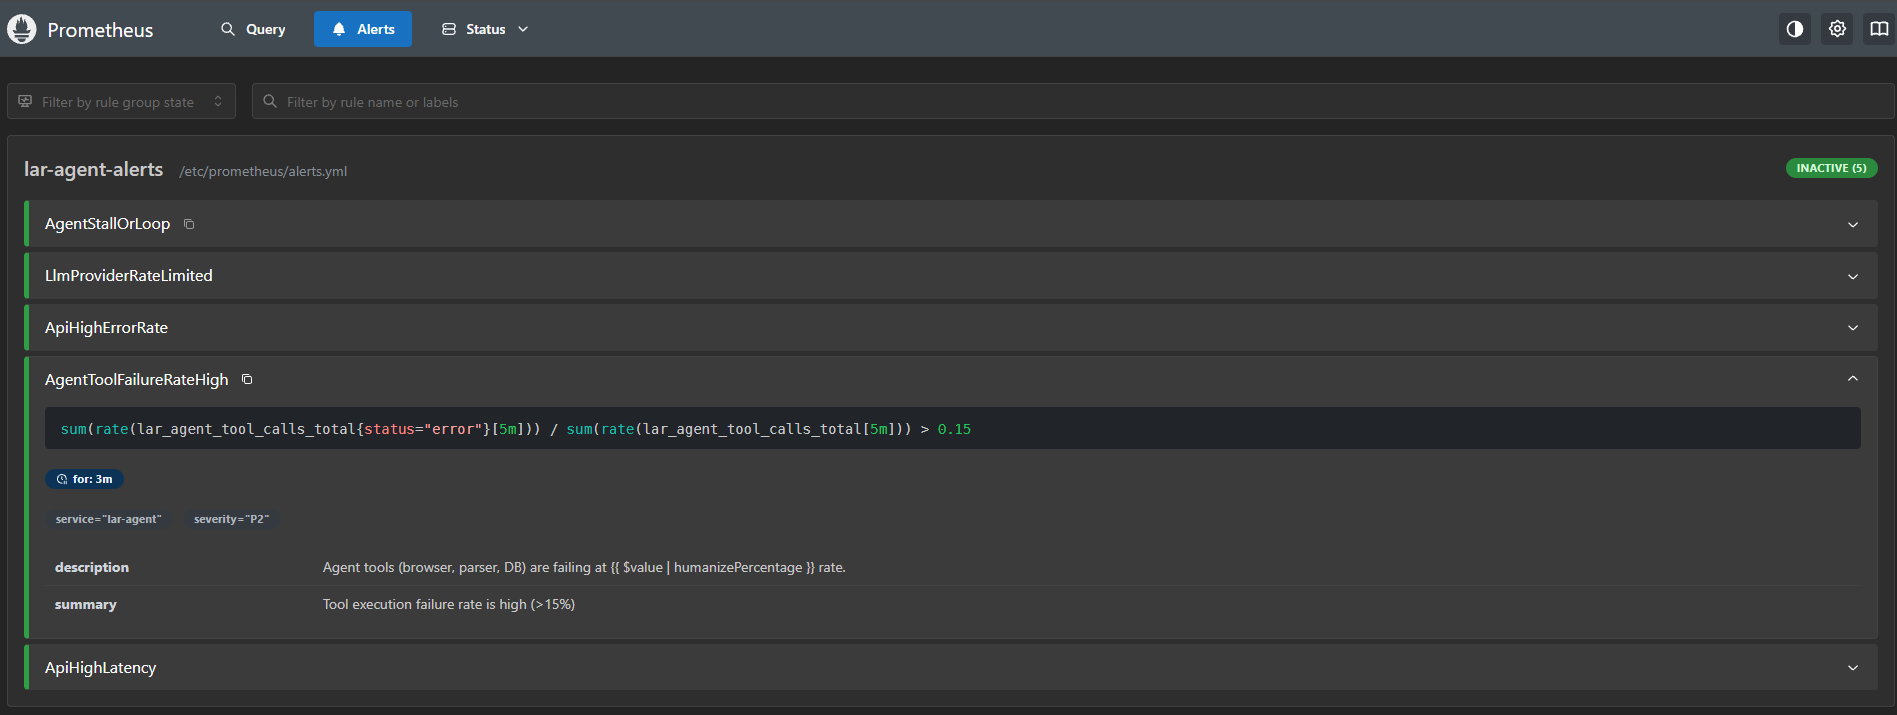
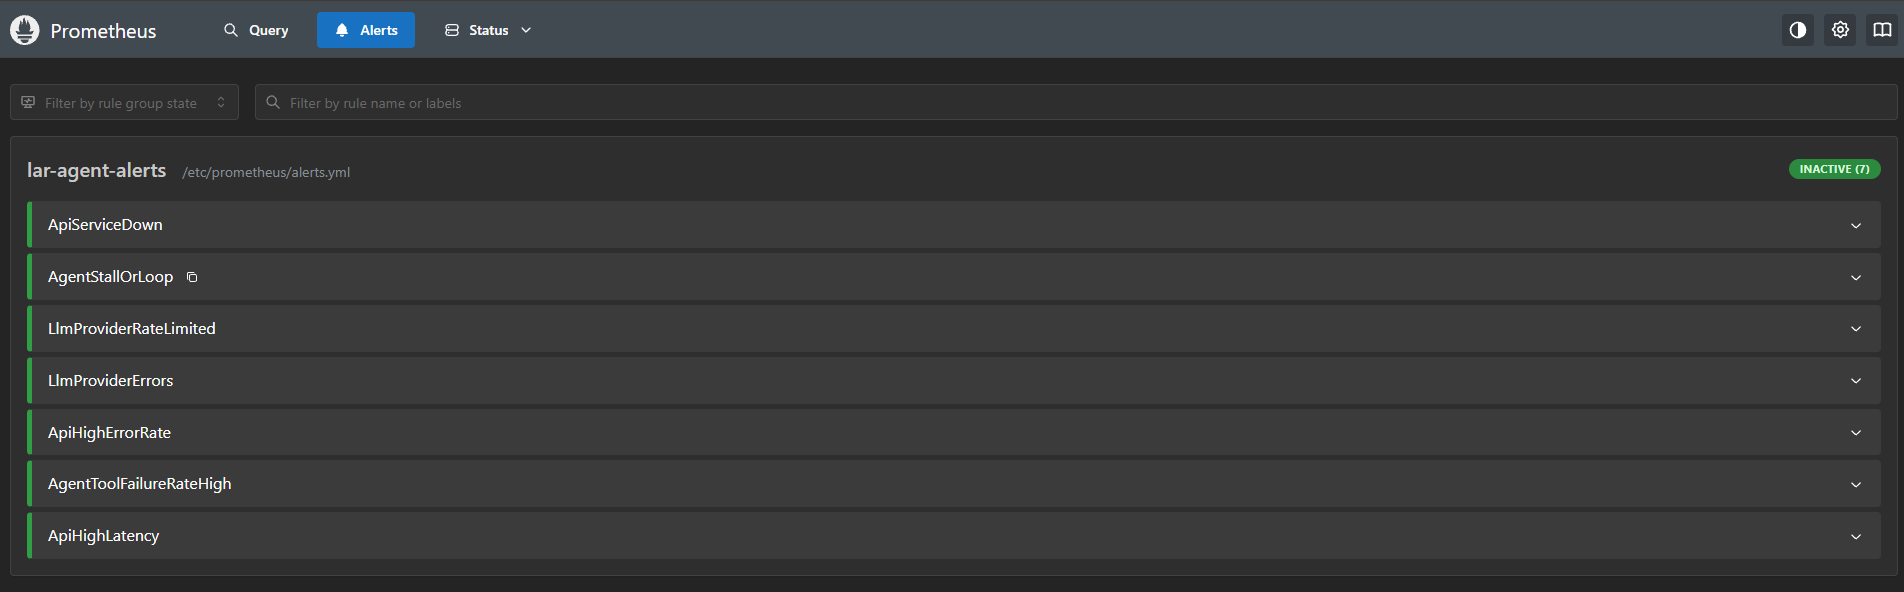
fix(guardrails): adapt mask_pii for NeMo, add regex fallback and register custom actions

diff --git a/src/agent/guardrails/actions/mask_pii.py b/src/agent/guardrails/actions/mask_pii.py
@@ -1,47 +1,80 @@
 import logging
+import re
 
 from nemoguardrails.actions import action
-from presidio_analyzer import AnalyzerEngine, Pattern, PatternRecognizer
-from presidio_anonymizer import AnonymizerEngine
 
 log = logging.getLogger(__name__)
 
-analyzer = AnalyzerEngine()
-anonymizer = AnonymizerEngine()
+_analyzer = None
+_anonymizer = None
 
-pesel_pattern = Pattern(name="pesel_pattern", regex=r"\b\d{11}\b", score=0.5)
-pesel_recognizer = PatternRecognizer(
-    supported_entity="PESEL", 
-    patterns=[pesel_pattern], 
-    context=["pesel", "nr pesel", "numer pesel"]
-)
-analyzer.registry.add_recognizer(pesel_recognizer)
+
+def _get_presidio():
+    global _analyzer, _anonymizer
+    if _analyzer is None:
+        try:
+            from presidio_analyzer import AnalyzerEngine, Pattern, PatternRecognizer
+            from presidio_anonymizer import AnonymizerEngine
+
+            engine = AnalyzerEngine()
+            pesel_pattern = Pattern(name="pesel_pattern", regex=r"\b\d{11}\b", score=0.5)
+            pesel_recognizer = PatternRecognizer(
+                supported_entity="PESEL",
+                patterns=[pesel_pattern],
+                context=["pesel", "nr pesel", "numer pesel"],
+            )
+            engine.registry.add_recognizer(pesel_recognizer)
+            _analyzer = engine
+            _anonymizer = AnonymizerEngine()
+        except Exception as exc:
+            log.warning("Could not initialize Presidio (%s). Using regex fallback.", exc)
+            _analyzer = False
+            _anonymizer = False
+    return _analyzer, _anonymizer
+
+
+def _fallback_mask(text: str) -> str:
+    text = re.sub(r"\b\d{11}\b", "<PESEL>", text)
+    text = re.sub(r"[\w\.-]+@[\w\.-]+\.\w+", "<EMAIL_ADDRESS>", text)
+    text = re.sub(r"\b(?:\+48\s*)?(?:\d{3}[-\s]?){3}\b", "<PHONE_NUMBER>", text)
+    return text
+
 
 @action(name="mask_pii", is_system_action=False)
-async def mask_pii(context: dict) -> dict:
+async def mask_pii(
+    context: dict | None = None,
+    source: str | None = None,
+    text: str | None = None,
+    **kwargs,
+) -> dict | str:
     """
-    Masks PII in the user message using Microsoft Presidio.
-    Returns a dict with the masked text to update the context.
+    Masks PII in the user message or text using Microsoft Presidio (with regex fallback).
     """
-    user_message = context.get("last_user_message", "")
-    if not user_message:
-        return {"last_user_message": user_message}
-        
+    ctx = context if isinstance(context, dict) else {}
+    target_text = text or ctx.get("last_user_message", "")
+    if not target_text:
+        return {"last_user_message": ""} if context is not None else ""
+
     try:
-        results = analyzer.analyze(
-            text=user_message,
-            entities=["EMAIL_ADDRESS", "PHONE_NUMBER", "PESEL"],
-            language="en" 
-        )
-        
-        # text anonimization
-        anonymized_result = anonymizer.anonymize(text=user_message, analyzer_results=results)
-        masked_text = anonymized_result.text
-        
-        if masked_text != user_message:
-            log.info(f"Masked PII in input. Original: '{user_message}', Masked: '{masked_text}'")
-            
+        analyzer, anonymizer = _get_presidio()
+        if analyzer and anonymizer:
+            results = analyzer.analyze(
+                text=target_text,
+                entities=["EMAIL_ADDRESS", "PHONE_NUMBER", "PESEL"],
+                language="en",
+            )
+            anonymized_result = anonymizer.anonymize(text=target_text, analyzer_results=results)
+            masked_text = anonymized_result.text
+        else:
+            masked_text = _fallback_mask(target_text)
+
+        if masked_text != target_text:
+            log.info("Masked PII. Original: '%s', Masked: '%s'", target_text, masked_text)
+
+        if text is not None and context is None:
+            return masked_text
         return {"last_user_message": masked_text}
     except Exception as e:
-        log.error(f"Error in mask_pii: {e}")
-        return {"last_user_message": user_message}
+        log.error("Error in mask_pii: %s. Using fallback.", e)
+        masked = _fallback_mask(target_text)
+        return {"last_user_message": masked} if context is not None else masked

diff --git a/src/agent/guardrails/actions/__init__.py b/src/agent/guardrails/actions/__init__.py
@@ -1,5 +1,13 @@
 from .check_hallucination import check_hallucination_action
+from .check_jailbreak import check_jailbreak
 from .check_language import check_polish_language_action
 from .check_off_topic import check_off_topic
+from .mask_pii import mask_pii
 
-__all__ = ["check_hallucination_action", "check_off_topic", "check_polish_language_action"]
+__all__ = [
+    "check_hallucination_action",
+    "check_jailbreak",
+    "check_off_topic",
+    "check_polish_language_action",
+    "mask_pii",
+]

diff --git a/src/api/main.py b/src/api/main.py
@@ -8,6 +8,7 @@ from nemoguardrails import Guardrails, RailsConfig
 from nemoguardrails.actions import action
 from nemoguardrails.llm.providers import register_chat_provider
 
+import src.agent.guardrails.actions  
 from src.agent.callbacks.agent_metrics import AgentMetricsCallbackHandler
 from src.api.metrics import setup_metrics
 from src.agent.graph import agent_app
